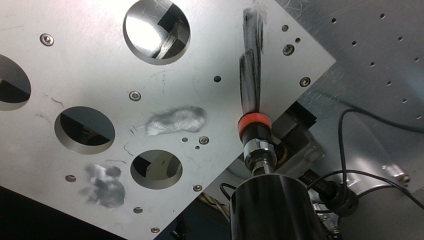
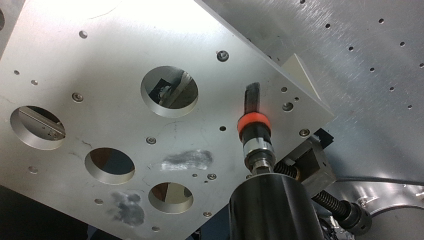
fxfy 를 obsevation으로는 쓰고 action으로는 쓰지 않게 패치

diff --git a/source/custom/_imitation_form_converter.py b/source/custom/_imitation_form_converter.py
@@ -1607,6 +1607,7 @@ def write_episode(
     gzip_level: int,
     orig_len: int,
     truncated: bool,
+    zero_action_force_xy: bool = False,
     mask_metadata: Optional[Dict[str, object]] = None,
 ) -> None:
     if out_path.exists():
@@ -1624,13 +1625,20 @@ def write_episode(
         f.attrs["has_gripper"] = int(bool(has_gripper))
         f.attrs["qpos_dim"] = 9
         f.attrs["action_dim"] = 11 if has_gripper else 9
+        f.attrs["action_force_xy_zeroed"] = int(bool(zero_action_force_xy))
+        f.attrs["observation_force_xy_preserved"] = 1
         if mask_metadata:
             for key, value in mask_metadata.items():
                 f.attrs[f"mask_{key}"] = value
 
         g_action = f.create_group("action")
         g_action.create_dataset("position", data=data["position"].astype(np.float32), **kwargs)
-        g_action.create_dataset("force", data=data["force"].astype(np.float32), **kwargs)
+        action_force = data["force"].astype(np.float32).copy()
+        if zero_action_force_xy:
+            action_force[:, :2] = 0.0
+        action_force_ds = g_action.create_dataset("force", data=action_force, **kwargs)
+        action_force_ds.attrs["xy_zeroed"] = int(bool(zero_action_force_xy))
+        action_force_ds.attrs["semantics"] = "command_target_force"
         if has_gripper:
             g_action.create_dataset(
                 "gripper_present_position",
@@ -1650,7 +1658,11 @@ def write_episode(
 
         g_obs = f.create_group("observations", track_order=True)
         g_obs.create_dataset("position", data=data["position"].astype(np.float32), **kwargs)
-        g_obs.create_dataset("force", data=data["force"].astype(np.float32), **kwargs)
+        observation_force_ds = g_obs.create_dataset(
+            "force", data=data["force"].astype(np.float32), **kwargs
+        )
+        observation_force_ds.attrs["xy_preserved"] = 1
+        observation_force_ds.attrs["semantics"] = "measured_force_observation"
         if has_gripper:
             g_gripper = g_obs.create_group("gripper", track_order=True)
             g_gripper.create_dataset(
@@ -1759,6 +1771,7 @@ def convert_merged_h5(
     write_summary: bool,
     include_gripper: bool = False,
     exclude_episode_indices: Sequence[int] = (),
+    zero_action_force_xy: bool = False,
     stain_mask_mode: str = "auto",
     stain_reference_episode: str = "ep_0000",
     stain_exclude_reference_episode: bool = True,
@@ -1900,6 +1913,7 @@ def convert_merged_h5(
         print(f"[INFO] output_dir     = {output_dir}")
         print(f"[INFO] camera_names   = {camera_names}")
         print(f"[INFO] include_gripper= {int(bool(include_gripper))}")
+        print(f"[INFO] action_fxy_zero= {int(bool(zero_action_force_xy))}")
         print(f"[INFO] episodes found = {len(ep_names)}")
         print(f"[INFO] excluded idx   = {excluded_indices}")
         print(f"[INFO] stain_mode     = {effective_stain_mode}")
@@ -2070,6 +2084,7 @@ def convert_merged_h5(
                     gzip_level=gzip_level,
                     orig_len=orig_len,
                     truncated=truncated,
+                    zero_action_force_xy=zero_action_force_xy,
                     mask_metadata=mask_metadata,
                 )
 
@@ -2111,6 +2126,8 @@ def convert_merged_h5(
                     ],
                     "schema_version": "imitation_form_compact_v1",
                     "include_gripper": bool(include_gripper),
+                    "action_force_xy_zeroed": bool(zero_action_force_xy),
+                    "observation_force_xy_preserved": True,
                     "stain_mask_mode": effective_stain_mode,
                     "tcp_roi_reference_width": int(tcp_roi_reference_width),
                     "tcp_roi_reference_height": int(tcp_roi_reference_height),
@@ -2213,6 +2230,22 @@ def build_parser(
             "Comma-separated zero-based source episode indices to exclude, for example 27,32. "
             "Remaining episodes are renumbered contiguously in the output directory."
         ),
+    )
+    parser.add_argument(
+        "--zero_action_force_xy",
+        dest="zero_action_force_xy",
+        action="store_true",
+        default=False,
+        help=(
+            "Write action/force Fx,Fy as zero while preserving measured Fx,Fy in "
+            "observations/force for policy conditioning."
+        ),
+    )
+    parser.add_argument(
+        "--keep_action_force_xy",
+        dest="zero_action_force_xy",
+        action="store_false",
+        help="Keep measured Fx,Fy in both action/force and observations/force (legacy behavior).",
     )
     parser.add_argument(
         "--include_gripper",
@@ -2596,6 +2629,7 @@ def run_cli(
         write_summary=bool(args.write_summary),
         include_gripper=bool(args.include_gripper),
         exclude_episode_indices=args.exclude_episode_indices,
+        zero_action_force_xy=bool(args.zero_action_force_xy),
         stain_mask_mode=str(args.stain_mask_mode),
         stain_reference_episode=str(args.stain_reference_episode),
         stain_exclude_reference_episode=not bool(args.keep_stain_reference_episode),

diff --git a/behavior_ws/src/nrs_imitation/launch/inference_gradcam_single_cam.launch.py b/behavior_ws/src/nrs_imitation/launch/inference_gradcam_single_cam.launch.py
@@ -46,6 +46,7 @@ def generate_launch_description():
     flow_noise_seed = LaunchConfiguration("flow_noise_seed")
     action_selection_mode = LaunchConfiguration("action_selection_mode")
     trajectory_hz = LaunchConfiguration("trajectory_hz")
+    force_xy_cmd_enable = LaunchConfiguration("force_xy_cmd_enable")
     cmd_safety_enable = LaunchConfiguration("cmd_safety_enable")
     cmd_safety_max_xyz_from_current_mm = LaunchConfiguration("cmd_safety_max_xyz_from_current_mm")
     cmd_safety_max_xy_from_start_mm = LaunchConfiguration("cmd_safety_max_xy_from_start_mm")
@@ -110,6 +111,7 @@ def generate_launch_description():
         DeclareLaunchArgument("flow_noise_seed", default_value="0"),
         DeclareLaunchArgument("action_selection_mode", default_value="trajectory_interp"),
         DeclareLaunchArgument("trajectory_hz", default_value="30.0"),
+        DeclareLaunchArgument("force_xy_cmd_enable", default_value="false"),
 
         # filtered58 demo envelope maxima were approximately XY=134.9 mm,
         # Z-down=79.3 mm, Z-up=86.1 mm. These defaults retain a small margin.
@@ -195,6 +197,7 @@ def generate_launch_description():
                 "flow_noise_seed": ParameterValue(flow_noise_seed, value_type=int),
                 "action_selection_mode": action_selection_mode,
                 "trajectory_hz": ParameterValue(trajectory_hz, value_type=float),
+                "force_xy_cmd_enable": ParameterValue(force_xy_cmd_enable, value_type=bool),
                 "cmd_safety_enable": ParameterValue(cmd_safety_enable, value_type=bool),
                 "cmd_safety_max_xyz_from_current_mm": ParameterValue(
                     cmd_safety_max_xyz_from_current_mm, value_type=float

diff --git a/behavior_ws/src/nrs_imitation/nrs_imitation/inference_core.py b/behavior_ws/src/nrs_imitation/nrs_imitation/inference_core.py
@@ -3781,6 +3781,11 @@ class NodeCmdMotionInfer(Node):
             return self.prev_cmd.copy() if self.prev_cmd is not None else np.zeros(9, dtype=np.float32)
 
         cmd = cmd[:9].astype(np.float32).copy()
+        # Final publication boundary: when tangential force commands are
+        # disabled, no upstream plan/stage path can leak measured-friction
+        # targets into the robot command.
+        if not self.force_xy_cmd_enable:
+            cmd[6:8] = 0.0
         published = cmd
 
         if self.cmd_safety_enable:

diff --git a/behavior_ws/src/nrs_imitation/nrs_imitation/inference_single_cam.py b/behavior_ws/src/nrs_imitation/nrs_imitation/inference_single_cam.py
@@ -28,6 +28,9 @@ DEFAULT_ROS_ARGS = [
     "-p", "step_cap_pos_mm:=0.05",
     "-p", "step_cap_ang_rad:=0.0001",
     "-p", "step_cap_fz:=0.05",
+    # The demonstrations treat tangential Fx/Fy as measured friction, not as
+    # commanded targets. Preserve them in observations but never send them.
+    "-p", "force_xy_cmd_enable:=false",
     # Disable the Fz command upper clamp for single-camera policies. The
     # non-negative guard and per-control-step slew cap remain active.
     "-p", "fz_hard_limit:=0.0",
